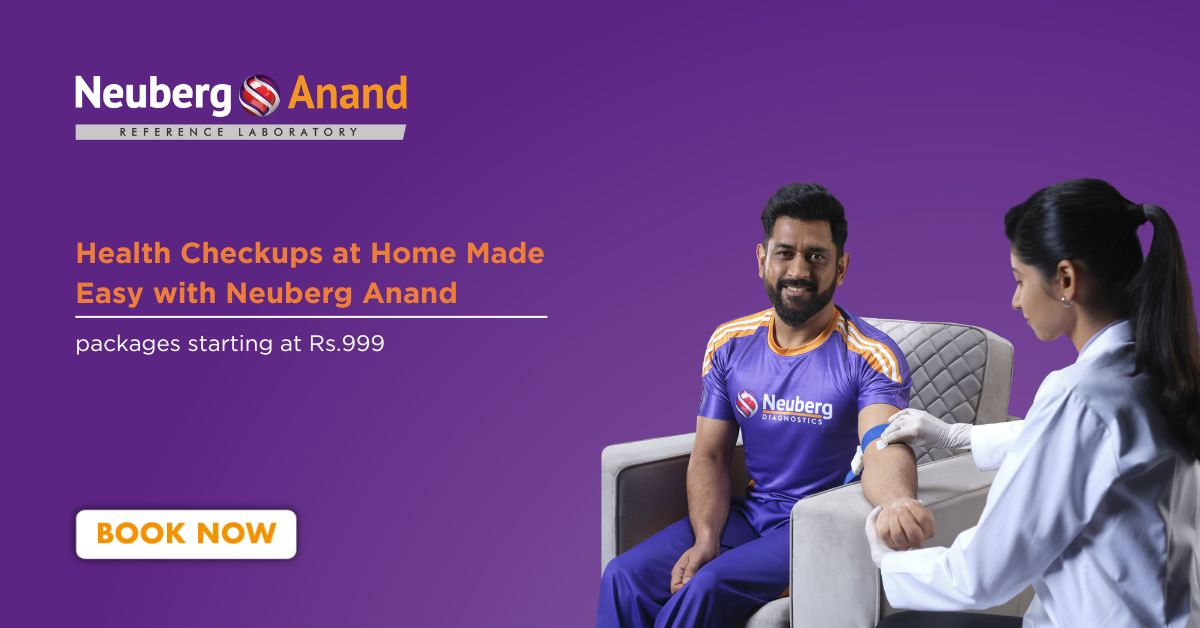
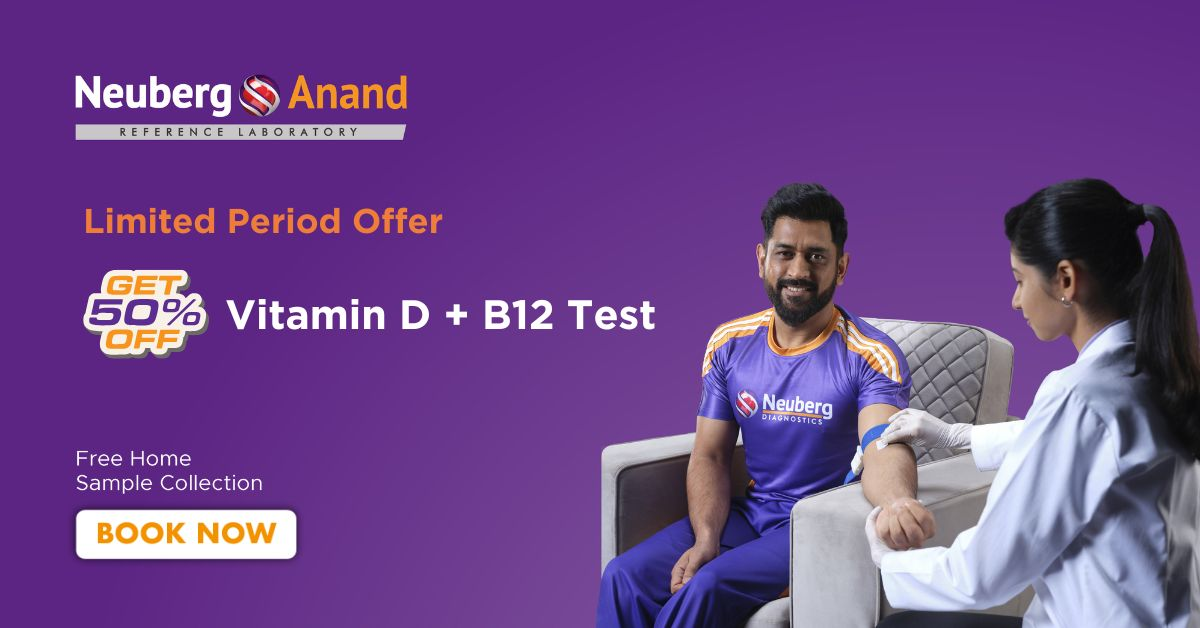
latest offer etxt & image changes

Changed region(s): [[0.0617, 0.3328, 0.555, 0.5748], [0.0617, 0.7261, 0.2158, 0.7866]]

diff --git a/src/Components/LatestOffer/LatestOffer.jsx b/src/Components/LatestOffer/LatestOffer.jsx
@@ -120,14 +120,14 @@ export default function LatestOffer() {
         'phone_conversion_number': '+918035287579'
       });
     `;
-    
+
   const gtmScript8 = document.createElement("script");
   gtmScript8.innerHTML = `
       gtag('config', 'AW-10841898141/QgvjCPu13tMZEJ356LEo', {
         'phone_conversion_number': '+918035287579'
       });
   `;
-    
+
   const gtmScript9 = document.createElement("script");
   gtmScript8.innerHTML = `
       gtag('config', 'AW-10841898141/hmNnCMaRtt4ZEJ356LEo', {
@@ -168,13 +168,15 @@ export default function LatestOffer() {
                   <img src={anandhome} alt="Anand at Home Collection Box for Lab Testing – A white box with the 'Anand' logo, designed for convenient and secure collection of samples for laboratory testing at home with contact information written on it" className="img-fluid" />
                   <br />
                   <br />
-                  <div className="common-para1 drk detilos-expl indication-details p-0">
-                    <p>At Neuberg Anand, we offer comprehensive health checkups tailored to your needs, starting at just ₹999. Our expert team ensures precise and timely results, helping you stay healthy and proactive.
+                  <div className="common-para1 drk detilos-expl indication-details p-0 text-left">
+                    <p>At Neuberg Anand, we offer comprehensive health checkups tailored to your needs, starting at just ₹999. Our expert team ensures precise and timely results, helping you stay healthy and proactive.  <br /><br />
+                      <b> Get 50% off on key tests – HbA1c, Vitamin D, and Iron Profile.</b> <br />
+                      <i> Offer valid till 31st October 2023.</i>                    {/* At Neuberg Anand, we offer comprehensive health checkups tailored to your needs, starting at just ₹999. Our expert team ensures precise and timely results, helping you stay healthy and proactive. */}
                     </p>
-                    <ul>
+                    {/* <ul>
                       <li>50% Off on Key Tests – HbA1c, Vitamin D, Iron Profile</li>
                       <li>Valid till 31 Oct 2023</li>
-                    </ul>
+                    </ul> */}
                     <br />
                     <b>Book your health check now!</b>
                   </div>
